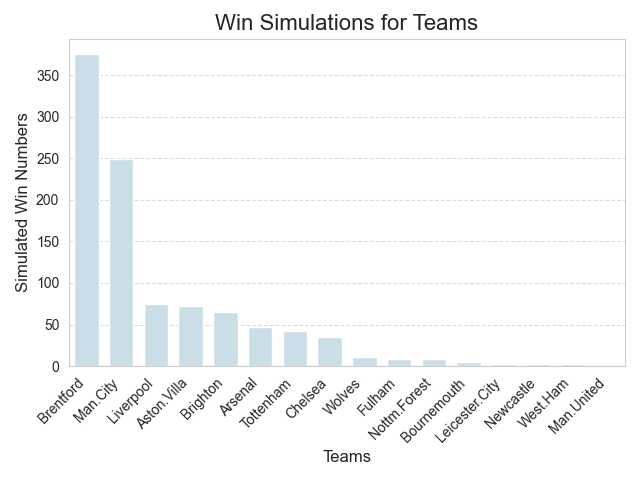
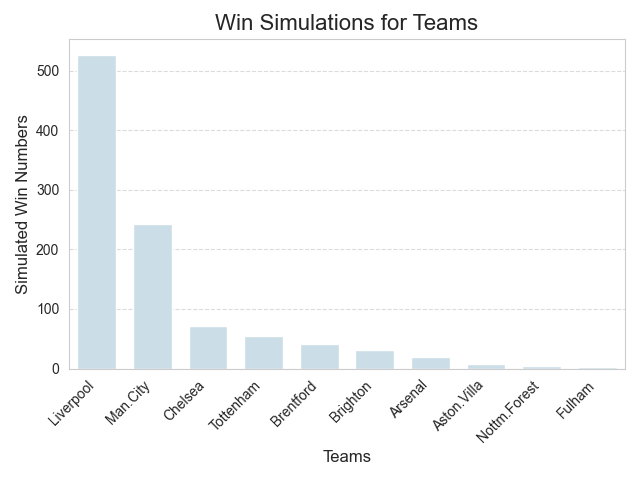
return to original lambda function, will need to change again

Changed region(s): [[0.0, 0.0938, 0.9688, 0.9375]]

diff --git a/probProject.py b/probProject.py
@@ -24,10 +24,7 @@ remaining_matches = pd.DataFrame({
 
 
 def lambda_value(club, pl_stats, home):
-    if(home):
-        return pl_stats.loc[club, 'xGoalsPerGame']
-    else:
-        return pl_stats.loc[club, 'xConcededPerGame']
+    return pl_stats.loc[club, 'xGoalsPerGame']
 
 # Simulate a single match
 def simulate_match(home, away, pl_stats):
